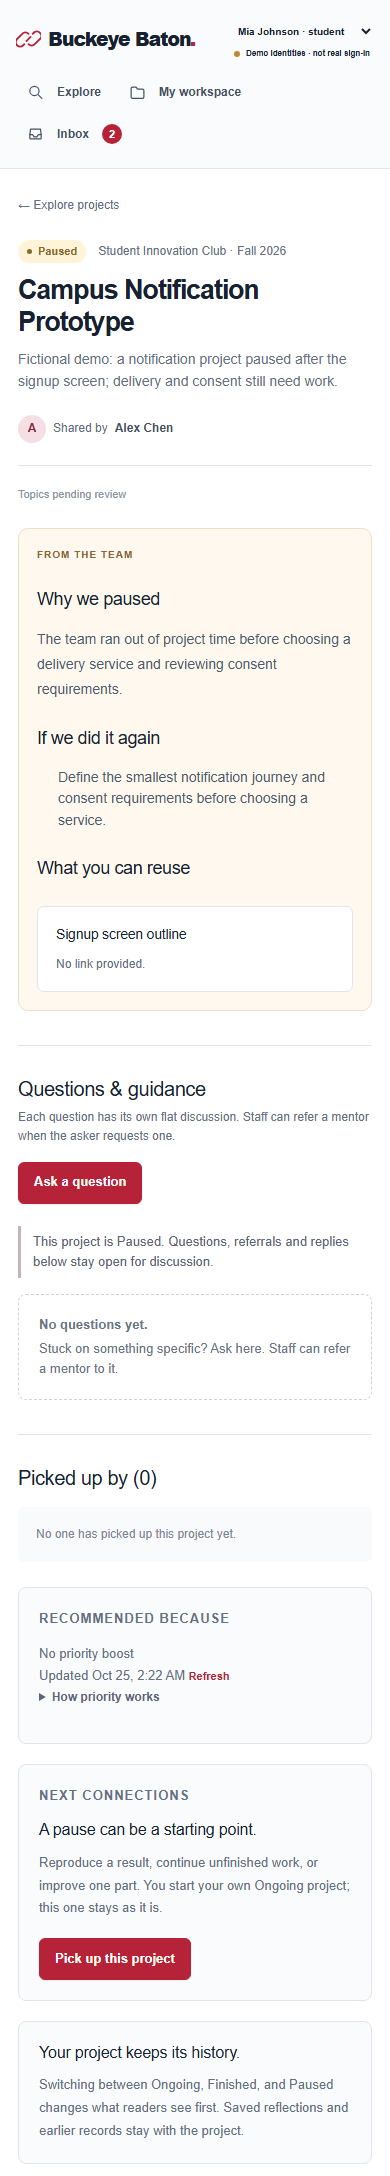
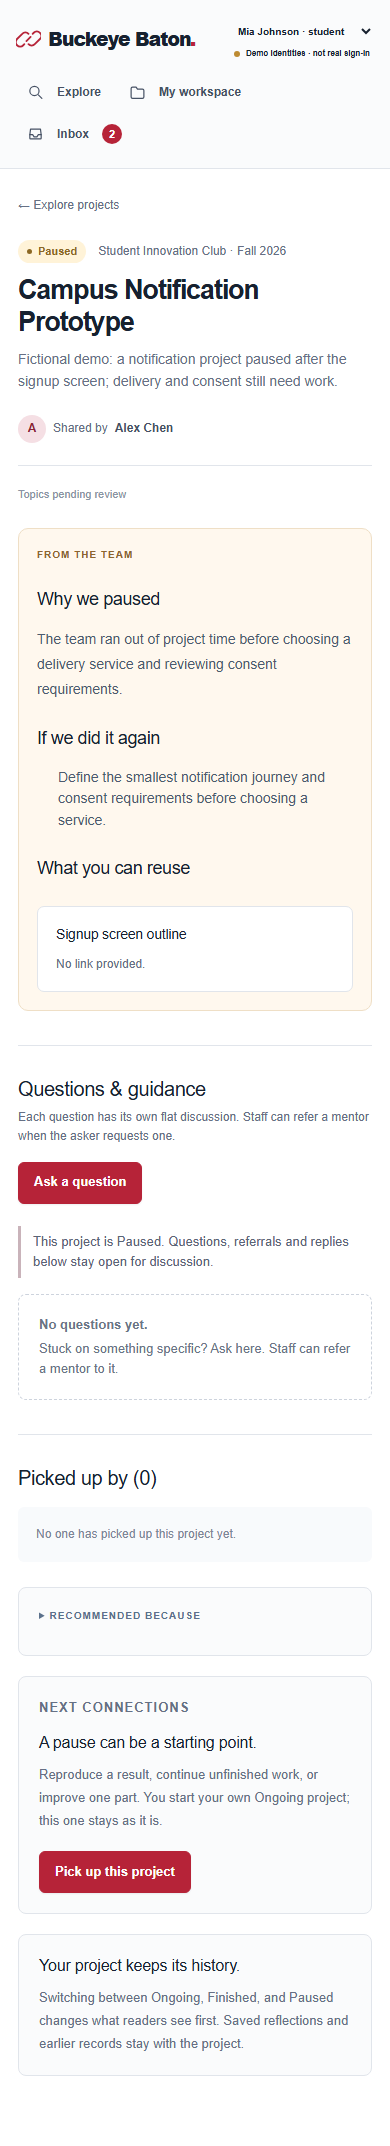
Refine recommendation UI and newest-first workbenches

diff --git a/tests/e2e/workbench-priority.spec.ts b/tests/e2e/workbench-priority.spec.ts
@@ -43,16 +43,11 @@ test('Explore Recommended explains its order; Newest, search and status still re
   await expect(page.getByRole('button', { name: 'Recommended', exact: true })).toHaveAttribute('aria-pressed', 'true');
   const first = page.locator('.project-card').first();
   await expect(first.getByRole('link', { name: fixtureTitle, exact: true })).toBeVisible();
-  const why = first.getByLabel('Why recommended');
-  await expect(why).toContainText('+20');
-  await expect(why).toContainText('Shared 40 days ago · no pickup yet');
-  await expect(why).toContainText('+30');
-  await expect(why).toContainText('Waiting 10 days for a reply');
-  await expect(why.getByRole('link', { name: 'Waiting 10 days for a reply' })).toHaveAttribute('href', /\/projects\/p3-old-paused#q-p3-old-question$/);
+  await expect(page.getByLabel('Why recommended')).toHaveCount(0);
   await expect(page.getByText(/^Updated /).first()).toBeVisible();
   await expect(page.getByText(/probab|likely to|guarantee/i)).toHaveCount(0);
   const recommendedCount = await page.locator('.project-card').count();
-  await expect(page.locator('.project-card').filter({ hasText: 'No priority boost' }).first()).toBeVisible();
+  await expect(page.locator('.project-card .card-priority')).toHaveCount(0);
   await page.screenshot({ path: path.join(evidenceDir, 'explore-recommended-desktop.png'), fullPage: true });
   await page.getByRole('button', { name: 'Newest', exact: true }).click();
   await expect(page.getByRole('button', { name: 'Newest', exact: true })).toHaveAttribute('aria-pressed', 'true');
@@ -62,7 +57,7 @@ test('Explore Recommended explains its order; Newest, search and status still re
   await page.getByRole('button', { name: 'Paused', exact: true }).click();
   await expect(page.locator('.project-card')).toHaveCount(1);
   await page.getByRole('button', { name: 'Recommended', exact: true }).click();
-  await expect(card(page, fixtureTitle).getByLabel('Why recommended')).toContainText('no pickup yet');
+  await expect(card(page, fixtureTitle).getByLabel('Why recommended')).toHaveCount(0);
   await page.getByRole('button', { name: 'Finished', exact: true }).click();
   await expect(page.getByRole('heading', { name: 'No matches yet', exact: true })).toBeVisible();
   // Identity switch returns to the unfiltered home with the default sort.
@@ -85,24 +80,18 @@ test('age-only Priority, system suggestions, referral/reply/follow-up/delete rec
   const asked = await page.request.post('/api/projects/project-events/questions', { headers: { 'x-demo-user-id': 'student-mia' }, data: { title: dueSoonTitle, body: '', wantsMentor: true, dueAt: new Date(Date.now() + 12 * 3600000).toISOString() } });
   expect(asked.status()).toBe(201);
 
-  // Kevin: Priority puts the near reply date first; Oldest first keeps creation order.
+  // Staff uses newest question creation first, with no Priority mode.
   await identity(page, 'staff-kevin');
   await page.goto('/workspace');
-  await expect(page.getByRole('button', { name: 'Priority', exact: true })).toHaveAttribute('aria-pressed', 'true');
-  const titles = () => page.locator('.workbench-item .workbench-title').allInnerTexts();
-  await expect(page.locator('.workbench-item').first()).toContainText(fixtureQuestion);
-  await expect(page.locator('.workbench-item').first().getByLabel('Priority')).toContainText('Waiting 10 days');
-  const fixtureItem = page.locator('.workbench-item', { hasText: fixtureQuestion });
-  await expect(fixtureItem.getByLabel('Priority')).toContainText('Waiting 10 days for a reply');
-  const priorityOrder = await titles();
-  expect(priorityOrder.indexOf(fixtureQuestion)).toBeLessThan(priorityOrder.indexOf(dueSoonTitle));
-  await page.screenshot({ path: path.join(evidenceDir, 'staff-workbench-priority-desktop.png'), fullPage: true });
-  await page.getByRole('button', { name: 'Oldest first', exact: true }).click();
-  await expect(page.getByRole('button', { name: 'Oldest first', exact: true })).toHaveAttribute('aria-pressed', 'true');
+  await expect(page.getByText('Newest questions first', { exact: true })).toBeVisible();
+  await expect(page.getByRole('button', { name: 'Priority', exact: true })).toHaveCount(0);
   await expect(page.locator('.workbench-item .card-priority')).toHaveCount(0);
-  const oldest = await titles();
-  expect(oldest.indexOf(fixtureQuestion)).toBeLessThan(oldest.indexOf(dueSoonTitle));
-  expect([...oldest].sort()).toEqual([...priorityOrder].sort());
+  const titles = await page.locator('.workbench-item .workbench-title').allInnerTexts();
+  expect(titles.indexOf(dueSoonTitle)).toBeLessThan(titles.indexOf(fixtureQuestion));
+  const response = await page.request.get('/api/workbench?sort=newest', { headers: { 'x-demo-user-id': 'staff-kevin' } });
+  expect(response.status()).toBe(200);
+  const dates = (await response.json()).data.needsReferral.map((t: { question: { createdAt: string } }) => Date.parse(t.question.createdAt));
+  expect(dates).toEqual([...dates].sort((a: number, b: number) => b - a));
 
   // Reply-date inputs are retired; old stored dates do not affect age-based priority.
   await identity(page, "student-mia");
@@ -150,8 +139,8 @@ test('age-only Priority, system suggestions, referral/reply/follow-up/delete rec
 
   await identity(page, 'mentor-sarah');
   await page.goto('/workspace');
-  await expect(page.getByRole('button', { name: 'Priority', exact: true })).toHaveAttribute('aria-pressed', 'true');
-  await expect(page.locator('.workbench-item', { hasText: fixtureQuestion }).getByLabel('Priority')).toContainText('Waiting 10 days');
+  await expect(page.getByText('Newest questions first', { exact: true })).toBeVisible();
+  await expect(page.locator('.workbench-item .card-priority')).toHaveCount(0);
   await expect(page.locator('.workbench-item', { hasText: dueSoonTitle })).toHaveCount(0);
   await page.screenshot({ path: path.join(evidenceDir, 'mentor-workbench-priority-desktop.png'), fullPage: true });
   await page.locator('.workbench-item', { hasText: fixtureQuestion }).getByRole('link', { name: fixtureQuestion }).click();
@@ -215,7 +204,7 @@ test('age-only Priority, system suggestions, referral/reply/follow-up/delete rec
   await expect(thread.locator('.post')).toHaveCount(3); // reply, thanks, follow-up (second reply deleted)
   expect(await projectScore()).toBe(0);
   await page.goto('/');
-  await expect(card(page, fixtureTitle).getByLabel('Why recommended')).not.toContainText('no pickup yet');
+  await expect(card(page, fixtureTitle).getByLabel('Why recommended')).toHaveCount(0);
 
   // 390px views.
   await page.setViewportSize({ width: 390, height: 844 });
@@ -225,7 +214,7 @@ test('age-only Priority, system suggestions, referral/reply/follow-up/delete rec
   await page.screenshot({ path: path.join(evidenceDir, 'project-priority-mobile.png'), fullPage: true });
   await identity(page, 'staff-kevin');
   await page.goto('/workspace');
-  await expect(page.getByRole('button', { name: 'Priority', exact: true })).toBeVisible();
+  await expect(page.getByText('Newest questions first', { exact: true })).toBeVisible();
   await noOverflow(page);
   await page.screenshot({ path: path.join(evidenceDir, 'staff-workbench-priority-mobile.png'), fullPage: true });
 });
@@ -236,15 +225,42 @@ test('priority panel and workbench show Retry on failed loads', async ({ page })
   await page.route(failing, route => route.fulfill({ status: 503, contentType: 'application/json', body: '{"error":{"code":"UNAVAILABLE","message":"Unavailable"}}' }));
   await page.goto(fixturePath);
   const panel = page.getByRole('region', { name: 'Project priority' });
+  await expect(panel.locator('details.recommendation-details')).not.toHaveAttribute('open', '');
+  await panel.getByText('Recommended because', { exact: true }).click();
   await expect(panel.getByText('Priority unavailable.')).toBeVisible();
   await expect(page.getByRole('article', { name: fixtureQuestion, exact: true })).toBeVisible();
   await page.unroute(failing);
   await panel.getByRole('button', { name: 'Retry', exact: true }).click();
   await expect(panel.getByText(/^Updated /)).toBeVisible();
   await identity(page, 'staff-kevin');
-  await page.route('**/api/workbench?sort=priority', route => route.fulfill({ status: 503, contentType: 'application/json', body: '{"error":{"code":"UNAVAILABLE","message":"Workbench unavailable."}}' }), { times: 1 });
+  await page.route('**/api/workbench?sort=newest', route => route.fulfill({ status: 503, contentType: 'application/json', body: '{"error":{"code":"UNAVAILABLE","message":"Workbench unavailable."}}' }), { times: 1 });
   await page.goto('/workspace');
   await expect(page.getByRole('alert').filter({ hasText: 'Workbench unavailable.' })).toBeVisible();
   await page.getByRole('button', { name: 'Retry', exact: true }).click();
-  await expect(page.getByRole('button', { name: 'Priority', exact: true })).toBeVisible();
+  await expect(page.getByText('Newest questions first', { exact: true })).toBeVisible();
+});
+
+
+test('English dates and collapsed reasons work with a Chinese browser locale', async ({ browser }) => {
+  const context = await browser.newContext({ locale: 'zh-CN', viewport: { width: 390, height: 844 } });
+  const page = await context.newPage();
+  try {
+    await page.goto('/');
+    await expect(page.getByLabel('Why recommended')).toHaveCount(0);
+    await page.goto(fixturePath);
+    const details = page.locator('details.recommendation-details');
+    await expect(details).not.toHaveAttribute('open', '');
+    await expect(details.getByText(/^Updated /)).not.toBeVisible();
+    await details.getByText('Recommended because', { exact: true }).focus();
+    await page.keyboard.press('Enter');
+    await expect(details).toHaveAttribute('open', '');
+    await expect(details.getByText(/^Updated /)).toBeVisible();
+    const updated = await details.getByText(/^Updated /).innerText();
+    expect(updated).toMatch(/Jan|Feb|Mar|Apr|May|Jun|Jul|Aug|Sep|Oct|Nov|Dec/);
+    expect(updated).not.toMatch(/[年月日]/);
+    expect(await page.evaluate(() => document.documentElement.scrollWidth <= innerWidth)).toBe(true);
+    await page.screenshot({ path: path.join(evidenceDir, 'collapsed-reasons-english-date-mobile.png'), fullPage: true });
+    await details.getByText('Recommended because', { exact: true }).click();
+    await expect(details).not.toHaveAttribute('open', '');
+  } finally { await context.close(); }
 });

diff --git a/project-docs/index.html b/project-docs/index.html
@@ -12,11 +12,16 @@
   "tagline": "HackOHI/O 2026 · Honda challenge · 项目经验接力",
   "url": "https://github.com/BOWEN2491/buckeye-baton",
   "lastUpdated": "2026-10-25",
-  "currentFocus": "P5 3001 standalone preview ready for manual acceptance; existing P4 database backed up, migrated and populated with simulation data",
-  "lastCompleted": "P5 9093dbb; typecheck/build, backend26/26, browser24/24, simulation2/2; existing 3001 data preserved with 20 simulation projects; 3000 unchanged",
-  "nextUp": "User manual acceptance of P5 and simulated role journeys; then consider fixes or merge, never merge main automatically",
-  "blockers": ["真实Neon连接、AWS权益及公网/持续调度环境未验证"],
-  "health": {"featuresDone": 8, "featuresTotal": 10}
+  "currentFocus": "",
+  "lastCompleted": "P5 accepted and merged PR4; demo UI refinement: compact cards, collapsed reasons, English dates, newest-question-first workbenches; typecheck/build, backend26/26 and browser25/25 passed",
+  "nextUp": "Manual acceptance of demo UI revision; inspect documented AI browse invalidation before changing AI policy",
+  "blockers": [
+    "真实Neon连接、AWS权益及公网/持续调度环境未验证"
+  ],
+  "health": {
+    "featuresDone": 8,
+    "featuresTotal": 10
+  }
 }
 </script>
 <!-- claude:meta:end -->
@@ -183,6 +188,7 @@
   <!-- ============ FEATURES ============ -->
   <section class="panel" id="features">
     <!-- claude:features:start -->
+<div class="card" data-updated="2026-10-25"><h3>Demo UI refinement</h3><p>Explore cards omit recommendation reasons; project details collapse Recommended because by default. All date formatters use en-US. Staff and Mentor workbenches show newest questions first with no Priority controls. AI generation remains unchanged; see <a href="../docs/AI_BROWSE_IMPLEMENTATION.md">current introduction pipeline and observed states</a>.</p></div>
 <div class="card" data-updated="2026-10-25"><h3>P5 <span class="badge wip">自动验收通过，等待手动产品验收</span></h3><p>Mentor自选五类expertise、问题分析与Staff前三候选、实时Awaiting reply；GitHub来源简介、限定标签、所有者确认。P5运行于3001，源SHA 9093dbb。详见<a href="../docs/P5_REPORT.md">交付报告</a>、<a href="../docs/P5_PREVIEW.md">预览记录</a>和<a href="../docs/P5_MANUAL_ACCEPTANCE.md">手动验收</a>。</p></div>
 <div class="card" data-updated="2026-10-25"><h3>P5产品模拟 <span class="badge done">已导入3001</span></h3><p>新增20项目、4 Mentor、30问题、60帖子与3接棒关系；20份simulation简介、24份虚构评分，导入阶段0真实模型调用。新Mentor待回复负载4/2/1/0，原有记录保持不变。</p></div>
 <div class="card" data-updated="2026-10-24"><h3>项目与三状态总结 <span class="badge done">产品验收通过</span></h3><p>浏览/搜索/筛选、所有者编辑/校验、历史保留；表单只显示当前状态字段，切换保留未保存输入。</p></div>
@@ -220,7 +226,7 @@
 <figure><img src="screenshots/p4-inbox-mobile.png" alt="Pickup-only Inbox at390px"><figcaption>2026-10-25 P4修订：Sarah无help邀请；桌面/390px检查通过，无写入。</figcaption></figure>
 <div class="card" data-updated="2026-10-25"><h3>P4预览截图（虚构演示数据）</h3><div class="screenshots"><div class="screenshot"><img src="screenshots/p4-inbox-desktop.png" alt="P4 Inbox invitation desktop"><p class="caption">3001/P4桌面，2026-10-25；邀请仍未接受</p></div><div class="screenshot"><img src="screenshots/p4-inbox-mobile.png" alt="P4 Inbox invitation at390px"><p class="caption">3001/P4，390px，无横向溢出</p></div></div></div>
 
-<div class="card" data-updated="2026-10-25"><h3>预览与验收截图</h3><div class="screenshots"><div class="screenshot"><img src="screenshots/desktop.png" alt="Buckeye Baton desktop"><p class="caption">P5隔离生产测试库桌面，2026-10-25，虚构数据</p></div><div class="screenshot"><img src="screenshots/mobile.png" alt="Buckeye Baton mobile"><p class="caption">P5隔离生产测试库390px，2026-10-25，虚构数据</p></div></div></div>
+<div class="card" data-updated="2026-10-25"><h3>预览与验收截图</h3><div class="screenshots"><div class="screenshot"><img src="screenshots/desktop.png" alt="Buckeye Baton desktop"><p class="caption">Demo UI refinement desktop: compact recommendation cards, isolated mock database, 2026-10-25</p></div><div class="screenshot"><img src="screenshots/mobile.png" alt="Buckeye Baton mobile"><p class="caption">Demo UI refinement at390px: English dates and no recommendation reasons on cards; mock data, 2026-10-25</p></div></div></div>
 <p class="muted">P4独立生产页面验收：<a href="../docs/evidence/p4-final-loadmore-recovered.png">Inbox分页恢复截图（虚构数据，2026-10-25）</a>；手机与四身份结果见P4_ACCEPTANCE。3000仍保留P3。</p>
 <!-- claude:design:screenshots:end -->
 
@@ -353,6 +359,7 @@ npm start</pre></div>
   <!-- ============ CHANGELOG ============ -->
   <section class="panel" id="changelog">
     <!-- claude:changelog:start -->
+<div class="card" data-updated="2026-10-25"><h3>Compact cards, English dates and newest-first workbenches</h3><p>User-requested UI refinement with collapsed recommendation explanation, chronological workbenches and an explanation of AI draft/publication invalidation. Isolated production browser checks include zh-CN locale and 390px.</p></div>
 <div class="card" data-updated="2026-10-25"><h3>P5预览与模拟数据导入</h3><p>3001运行P5提交9093dbb，保留原持久数据库并完成增量迁移；停服时事务导入20个项目、4名Mentor、30个问题、60条帖子和3条接棒，核对16张数据表的旧记录均未变化。升级前1047个文件逐一SHA-256匹配备份；3000保持不动。详见docs/P5_PREVIEW.md。</p></div>
 <div class="card" data-updated="2026-10-25"><h3>P5实现与模拟适配</h3><p>新增固定五类Mentor专长/问题分类/前三候选，GitHub来源简介及只读限定标签，持久单任务循环与增量迁移。typecheck/build、后端26/26、生产浏览器24/24与模拟2/2通过；含仓库来源hash变化/旧页确认、失败后有限重试和详情标签即时刷新。验证不改变3000/3001、main或部署。</p></div>
 <div class="card" data-updated="2026-10-25"><h3>完整版本获准合并</h3><p>用户确认P4全部通过，P2–P4已通过PR #3合入main（3bf29b3）；3000/3001、数据库和模型配置保留。详见docs/RELEASE_ACCEPTANCE.md。</p></div>

diff --git a/src/components/workbench.tsx b/src/components/workbench.tsx
@@ -3,8 +3,7 @@ import Link from "next/link";
 import { useState } from "react";
 import type { Project } from "@/shared/types";
 import type { Workbench as WorkbenchData } from "@/shared/relay-types";
-import type { PrioritizedThread, WorkbenchSort } from "@/shared/p3-types";
-import { PriorityReasons, PriorityRules, UpdatedRefresh } from "./priority";
+import type { PrioritizedThread } from "@/shared/p3-types";
 import { formatDate, readable, useResource } from "@/lib/client";
 import { useIdentity } from "./app-shell";
 import { Empty, Feedback, Loading } from "./ui";
@@ -48,20 +47,13 @@ function Item({ thread, project, role }: { thread: PrioritizedThread; project?: 
           {role === "mentor" && lastReply && thread.state === "replied" ? ` · You replied ${formatDate(lastReply.createdAt)}` : ""}
         </p>
       )}
-      {thread.priority && (
-        <div className="card-priority" aria-label="Priority">
-          <strong>Priority · waiting since {formatDate(thread.priority.pendingSince)}</strong>
-          <PriorityReasons reasons={thread.priority.reasons} projectId={q.projectId} />
-        </div>
-      )}
     </li>
   );
 }
 
 export function RoleWorkbench({ role }: { role: "staff" | "mentor" }) {
   const { userId } = useIdentity();
-  const [sort, setSort] = useState<WorkbenchSort>("priority");
-  const { data, error, loading, reload } = useResource<Record<keyof WorkbenchData, PrioritizedThread[]>>(`/workbench?sort=${sort}`, userId);
+  const { data, error, loading, reload } = useResource<Record<keyof WorkbenchData, PrioritizedThread[]>>("/workbench?sort=newest", userId);
   const { data: projects = [] } = useResource<Project[]>("/projects");
   const [tab, setTab] = useState<Tab>(tabs[role][0].key);
   const current = tabs[role].find((t) => t.key === tab)!;
@@ -76,7 +68,6 @@ export function RoleWorkbench({ role }: { role: "staff" | "mentor" }) {
       </div>
     );
   const list = data[tab];
-  const asOf = Object.values(data).flat().find((t) => t.priority)?.priority?.asOf;
   return (
     <section aria-label={role === "staff" ? "Staff workbench" : "Mentor workbench"}>
       <Feedback error={error} />
@@ -89,22 +80,11 @@ export function RoleWorkbench({ role }: { role: "staff" | "mentor" }) {
         ))}
       </div>
       <div className="sort-bar">
-        <div className="filter-buttons" role="group" aria-label="Sort questions">
-          {(["priority", "oldest"] as const).map((s) => (
-            <button key={s} aria-pressed={sort === s} className={sort === s ? "selected" : ""} onClick={() => setSort(s)}>
-              {s === "priority" ? "Priority" : "Oldest first"}
-            </button>
-          ))}
-        </div>
-        {sort === "priority" ? (
-          <UpdatedRefresh asOf={asOf} loading={loading} onRefresh={() => void reload()} />
-        ) : (
-          <button type="button" className="text-button" onClick={() => void reload()} disabled={loading}>
-            {loading ? "Refreshing…" : "Refresh"}
-          </button>
-        )}
+        <p className="field-help">Newest questions first</p>
+        <button type="button" className="text-button" onClick={() => void reload()} disabled={loading}>
+          {loading ? "Refreshing…" : "Refresh"}
+        </button>
       </div>
-      {sort === "priority" && <PriorityRules />}
       <p className="field-help workbench-help">{current.help}</p>
       {list.length ? (
         <ul className="workbench-list">

diff --git a/src/server/relay.ts b/src/server/relay.ts
@@ -168,7 +168,7 @@ export async function deletePost(db: Storage, user: User, postId: string) {
 }
 
 // sort=undefined keeps the original Workbench response; 'priority' adds per-thread priority (P3).
-export async function workbench(db: Sql, user: User, sort?: 'priority' | 'oldest') {
+export async function workbench(db: Sql, user: User, sort?: 'priority' | 'oldest' | 'newest') {
  const empty: Workbench = { needsReferral: [], referred: [], awaitingReply: [], replied: [] };
  let groups: Workbench;
  if (user.role === 'staff') {
@@ -178,6 +178,8 @@ export async function workbench(db: Sql, user: User, sort?: 'priority' | 'oldest
   const mine = await threads(db, 'id IN (SELECT "questionId" FROM project_referrals WHERE "mentorId"=$1)', [user.id]);
   groups = { ...empty, awaitingReply: mine.filter(t => t.state === 'awaiting_reply'), replied: mine.filter(t => t.state === 'replied') };
  } else return fail(403, 'FORBIDDEN', 'The workbench is for Staff and Mentors');
+ // Threads arrive in exact database chronological order; reverse each group for Newest.
+ if (sort === 'newest') return json(Object.fromEntries(Object.entries(groups).map(([key, list]) => [key, [...list].reverse()])));
  if (sort !== 'priority') return json(groups);
  const asOf = priority.now();
  return json({ needsReferral: priority.prioritize(groups.needsReferral, asOf), referred: priority.prioritize(groups.referred, asOf), awaitingReply: priority.prioritize(groups.awaitingReply, asOf), replied: priority.prioritize(groups.replied, asOf) });

diff --git a/src/components/ui.tsx b/src/components/ui.tsx
@@ -2,8 +2,6 @@ import Link from "next/link";
 import type { Project } from "@/shared/types";
 import type { PublishedIntroduction } from "@/shared/p2-types";
 import type { P5PublishedIntroduction } from "@/shared/p5-types";
-import type { ProjectPriority } from "@/shared/p3-types";
-import { PriorityReasons } from "./priority";
 import { readable } from "@/lib/client";
 import { Icon } from "./app-shell";
 export function Feedback({
@@ -71,11 +69,9 @@ export function Tags({ tags }: { tags: string[] }) {
 export function ProjectCard({
   project,
   introduction,
-  priority,
 }: {
   project: Project;
   introduction?: PublishedIntroduction | null;
-  priority?: ProjectPriority;
 }) {
   // A confirmed introduction replaces the authored summary/tags on the card only while it is current.
   const candidate = introduction as P5PublishedIntroduction | null | undefined;
@@ -120,12 +116,6 @@ export function ProjectCard({
         </p>
       </div>
       {intro ? <><Tags tags={intro.topics} /><Tags tags={intro.technologies} /></> : <p className="field-help">Topics pending review</p>}
-      {priority && (
-        <div className="card-priority" aria-label="Why recommended">
-          <strong>Why recommended</strong>
-          <PriorityReasons reasons={priority.reasons} projectId={project.id} limit={2} />
-        </div>
-      )}
       <div className="card-footer">
         <Icon name="book" size={17} />
         <span>

diff --git a/src/components/priority-panel.tsx b/src/components/priority-panel.tsx
@@ -9,7 +9,8 @@ export function PriorityPanel({ projectId, isOwner, onEdit }: { projectId: strin
   const detailId = useId();
   return (
     <section className="panel contextual-panel priority-panel" aria-label="Project priority">
-      <p className="eyebrow">Recommended because</p>
+      <details className="recommendation-details">
+        <summary className="eyebrow">Recommended because</summary>
       {error && !data ? (
         <p className="workload-unavailable" role="status">
           Priority unavailable.{" "}
@@ -27,7 +28,10 @@ export function PriorityPanel({ projectId, isOwner, onEdit }: { projectId: strin
           {error && <p className="workload-unavailable">Couldn’t refresh. Showing the last result.</p>}
           <UpdatedRefresh asOf={data.priority.asOf} loading={loading} onRefresh={() => void reload()} />
           <PriorityRules />
-          {isOwner && (
+        </>
+      )}
+      </details>
+      {data && isOwner && (
             <div className="owner-advice" aria-label="Suggestions for your project">
               <div className="suggestions-heading">
                 <h3>Suggestions for your project</h3>
@@ -57,8 +61,6 @@ export function PriorityPanel({ projectId, isOwner, onEdit }: { projectId: strin
                 <p className="field-help">No suggestions right now.</p>
               )}
             </div>
-          )}
-        </>
       )}
     </section>
   );

diff --git a/src/server/api.ts b/src/server/api.ts
@@ -55,7 +55,7 @@ export async function handle(req: Request, resource: string, id?: string): Promi
   if(resource==='questionPosts'&&method==='POST') return await relay.addPost(req,db,user,id!);
   if(resource==='projectPost'&&method==='DELETE') return await relay.deletePost(db,user,id!);
   if(resource==='questionReferral'&&method==='POST') return await relay.refer(req,db,user,id!);
-  if(resource==='workbench'&&method==='GET') return await relay.workbench(db,user,sortParam(search,['priority','oldest']));
+  if(resource==='workbench'&&method==='GET') return await relay.workbench(db,user,sortParam(search,['priority','oldest','newest']));
   if(resource==='projectQuestion'&&method==='PATCH') return await relay.updateDueAt(req,db,user,id!);
   if(resource==='inbox'&&method==='GET') return await inbox.listInbox(req,db,user);
   if(resource==='inboxItem'&&method==='PATCH') return await inbox.markRead(req,db,user,id!);

diff --git a/src/lib/client.ts b/src/lib/client.ts
@@ -63,10 +63,10 @@ export function readable(value: string) {
   return value.replaceAll("_", " ").replace(/^./, (v) => v.toUpperCase());
 }
 export function formatDate(value: string) {
-  return new Date(value).toLocaleDateString(undefined, { month: "short", day: "numeric", year: "numeric" });
+  return new Date(value).toLocaleDateString("en-US", { month: "short", day: "numeric", year: "numeric" });
 }
 export function formatDateTime(value: string) {
-  return new Date(value).toLocaleString(undefined, { month: "short", day: "numeric", hour: "numeric", minute: "2-digit" });
+  return new Date(value).toLocaleString("en-US", { month: "short", day: "numeric", hour: "numeric", minute: "2-digit" });
 }
 export function errorText(error: unknown) {
   return error instanceof Error ? error.message : "Something went wrong.";

diff --git a/src/app/globals.css b/src/app/globals.css
@@ -1929,3 +1929,8 @@ nav {
 .ai-sources summary { cursor: pointer; font-weight: 600; }
 .ai-sources ul { padding-left: 1.3rem; }
 @media (max-width: 480px) { .mentor-recommendations .section-heading { flex-direction: column; } .intro-row { flex-wrap: wrap; } }
+
+/* Recommendation explanations stay compact until explicitly opened. */
+.recommendation-details > summary { cursor: pointer; margin-bottom: 0; }
+.recommendation-details[open] > summary { margin-bottom: 1rem; }
+.recommendation-details > summary:focus-visible { outline: 2px solid #b62338; outline-offset: 4px; }

diff --git a/src/app/page.tsx b/src/app/page.tsx
@@ -78,7 +78,7 @@ export default function Explore() {
         ) : data?.length ? (
           <div className="project-grid">
             {data.map((p) => (
-              <ProjectCard key={p.id} project={p} introduction={p.introduction} priority={sort === "recommended" ? p.priority : undefined} />
+              <ProjectCard key={p.id} project={p} introduction={p.introduction} />
             ))}
           </div>
         ) : (

diff --git a/src/shared/p3-types.ts b/src/shared/p3-types.ts
@@ -18,4 +18,4 @@ export interface ProjectPriorityDetail {
   advice: OwnerAdvice[];
 }
 export type ProjectSort = 'recommended' | 'newest';
-export type WorkbenchSort = 'priority' | 'oldest';
+export type WorkbenchSort = 'priority' | 'oldest' | 'newest';

diff --git a/docs/AI_BROWSE_IMPLEMENTATION.md b/docs/AI_BROWSE_IMPLEMENTATION.md
@@ -1,0 +1,19 @@
+# Current browse introduction pipeline
+
+Reviewed 2026-10-25. This explains existing P5 behavior; no model, prompt or generation state behavior was changed for the UI refinement.
+
+1. Creating a project with a repository, or editing saved source fields, enqueues durable project AI work in the same transaction. Source identity includes title, summary, course/club, term, repository URL, status and the entire reflection. Changing any of these invalidates the old publication. See `src/server/api.ts`, `recommendations.ts`, `ai-jobs.ts`.
+2. With `AI_ANALYSIS_RUNNER_ENABLED=1`, a sustained Node process checks every five seconds and runs one task at a time. No runner means tasks remain pending.
+3. GitHub inputs include description, default-branch commit, languages, README and up to two root manifests. Files are pinned to the commit. Anonymous GitHub calls time out after ten seconds, have response/file/combined size bounds and use a five-minute cache. Cache expiry alone does not hide publication; a newly read, changed snapshot does.
+4. The Responses API receives saved project data plus repository data, with strict JSON schema for 1–3 sentences, 1–3 fixed Topics and 0–6 fixed Technologies. Model comes from local OPENAI_PROJECT_INTRO_MODEL. Each request has a thirty-second timeout.
+5. Inputs longer than 16,000 characters are repeatedly reduced by shortening every string/list. This can remove useful README or dependency evidence. Output validation checks sentence constraints, allowed labels and literal technology evidence; one invalid technology rejects the whole output. There is no deterministic text template, so regenerated wording can differ.
+6. Success saves a private draft. Owner edits sentences and must confirm publication. Until confirmation, Explore uses authored summary. Editing a project can immediately hide an already confirmed introduction while its replacement is queued/generated/reviewed. A new draft alone is not publication.
+7. Transient failures retry at most twice, thirty and 120 seconds after failures. Configuration errors and unusable output require manual retry. Changed project/repository identity blocks stale results and old-tab confirmation. Browse only reads saved publication; it never generates text on page view.
+
+## Read-only observations from the current 3001 preview
+
+At inspection, SafeSight had status stale, no current draft and no public AI introduction; it was not reporting a provider failure. Club Inventory Checkout++ had ready, a current draft and a public introduction. Older projects without repositories had no P5 task. This shows different pipeline states, not evidence of an intermittent model outage. No real AI calls were made for this inspection.
+
+## Possible follow-up changes
+
+Discuss separately: narrower invalidation for nonsemantic metadata; explicit stale/review states in the owner panel; prioritised truncation retaining technology evidence; independent retry for invalid labels; retaining the last reviewed introduction with a stale label. The last option changes the approved P5 fallback-to-authored-summary policy.
